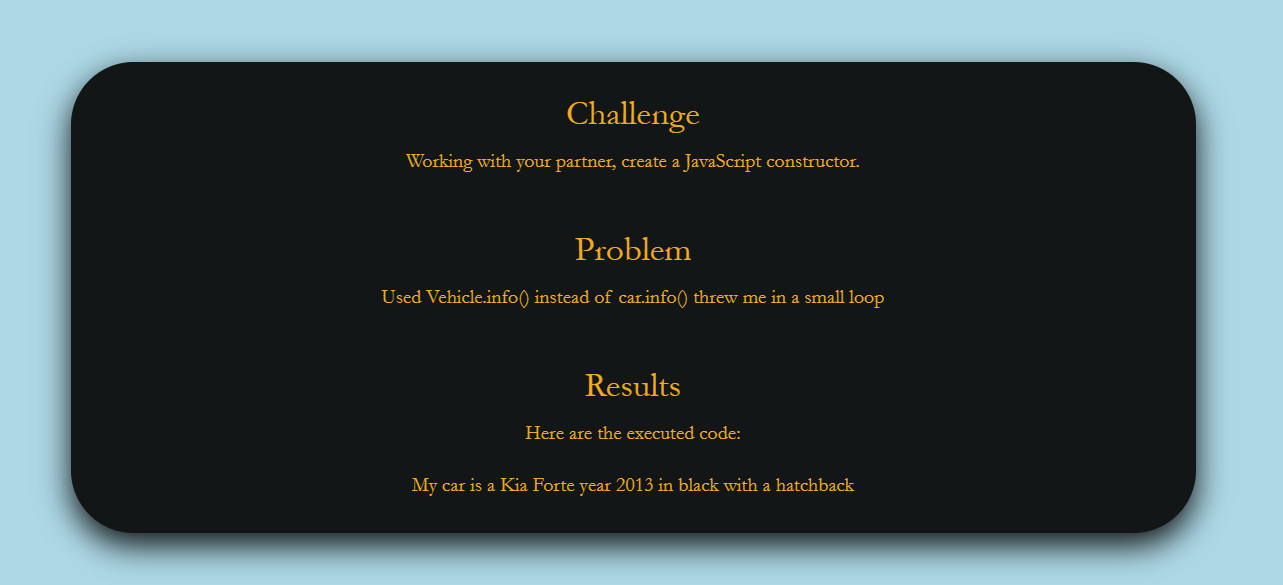
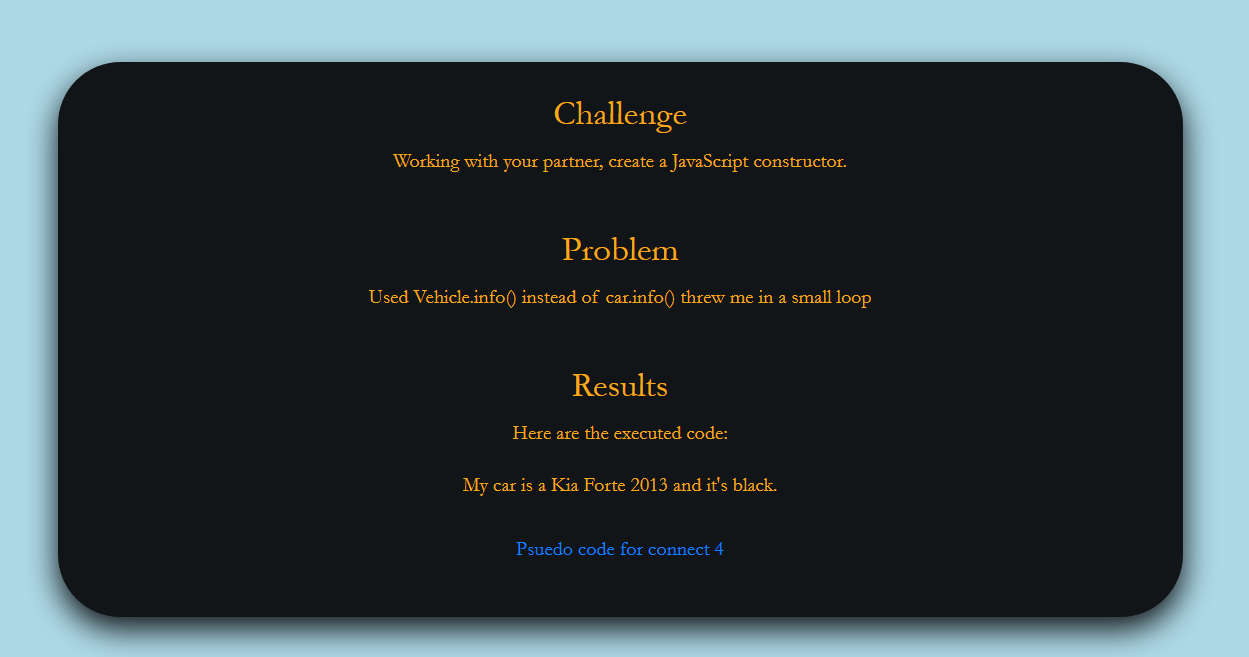
addded js

diff --git a/lab15/index.html b/lab15/index.html
@@ -23,7 +23,8 @@
 		<div id="output">
 			<p></p>
 		</div>
-
+	<br>
+			<p><a href="js/lab.js">Psuedo code for connect 4</p>
 	</div>
 
 </body>
